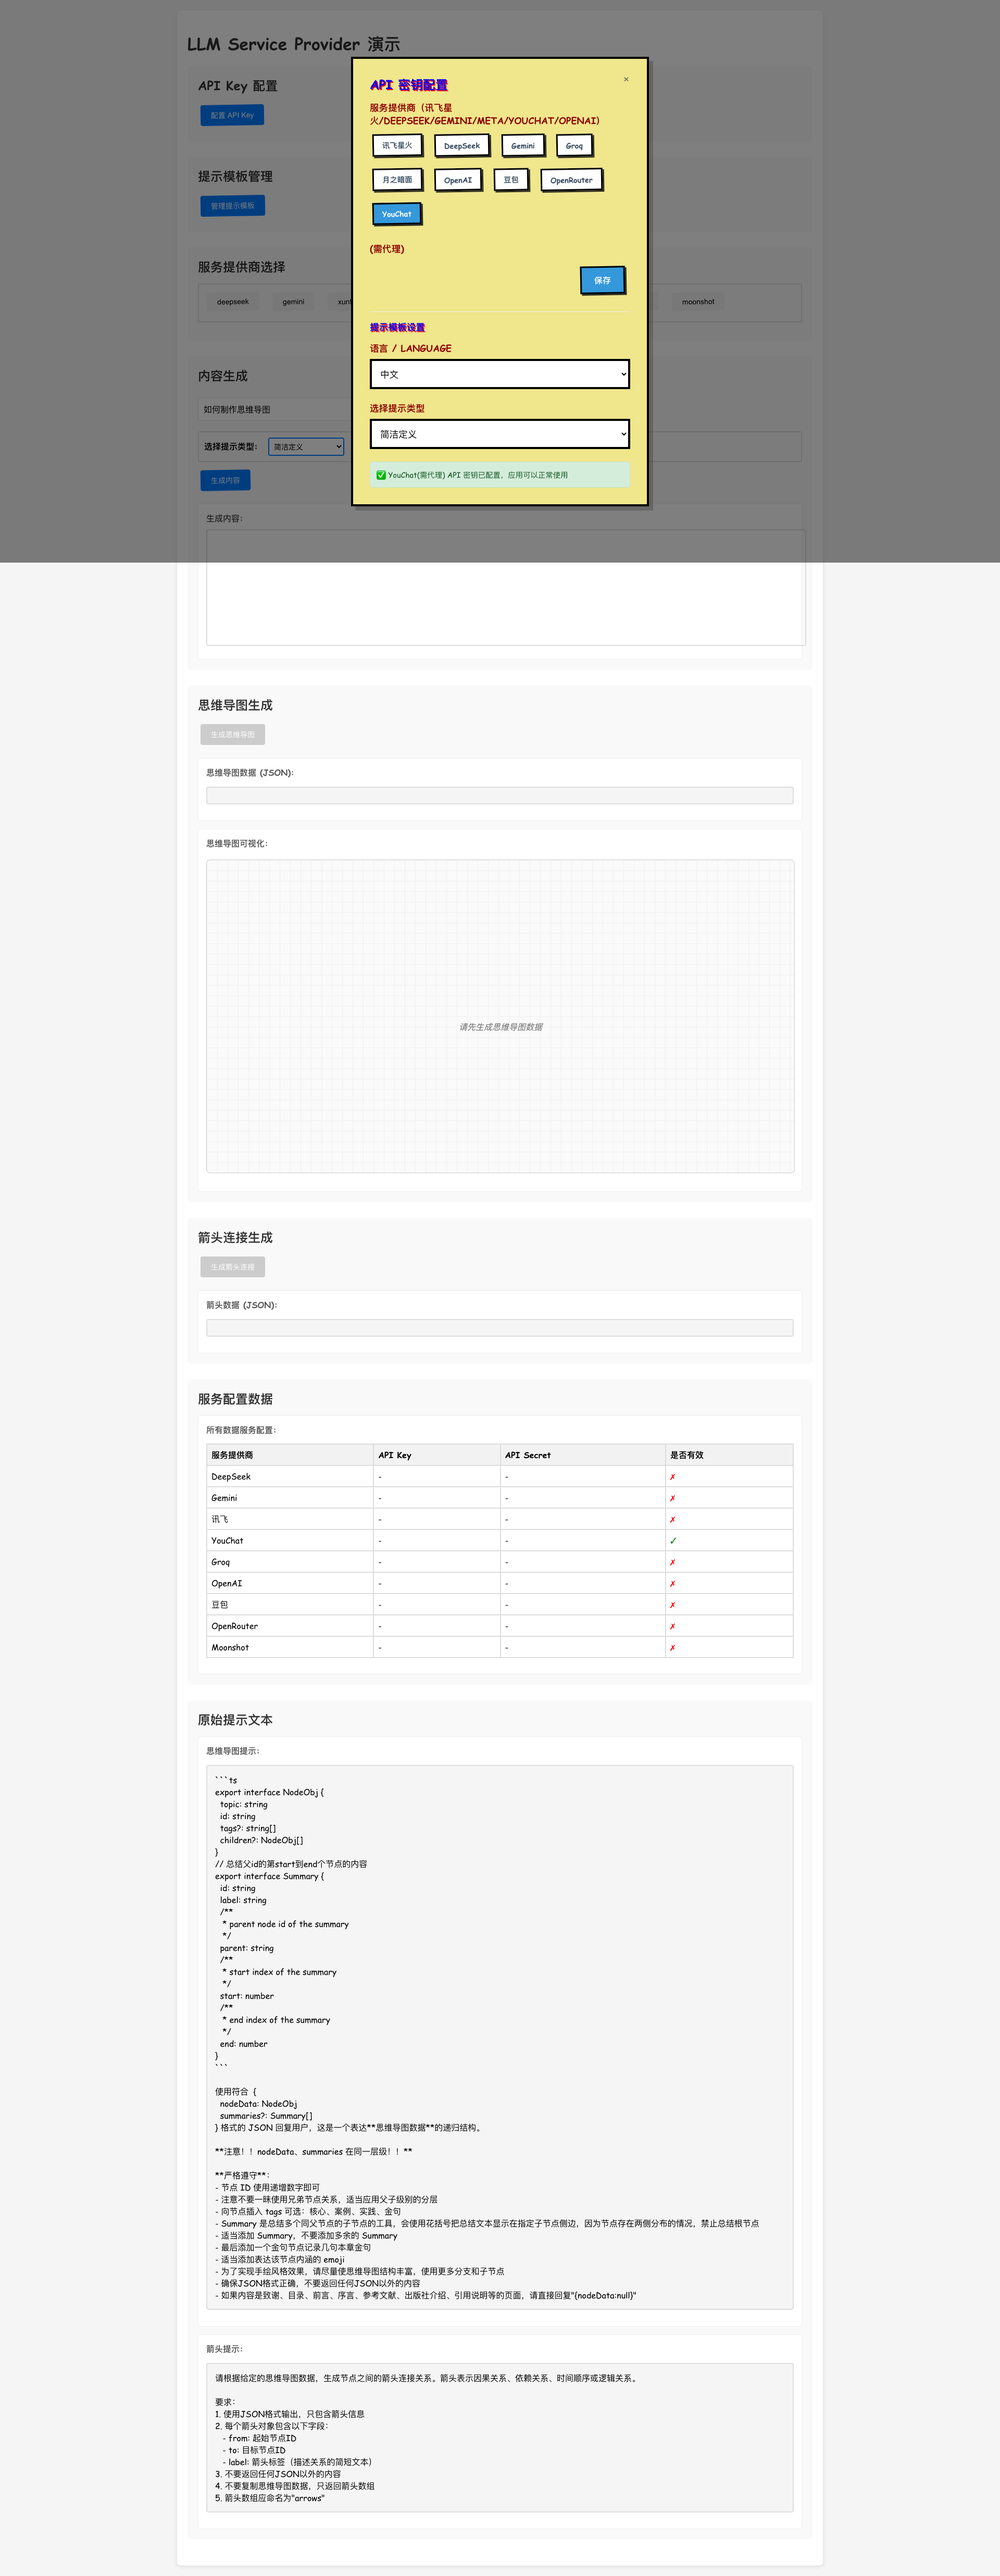
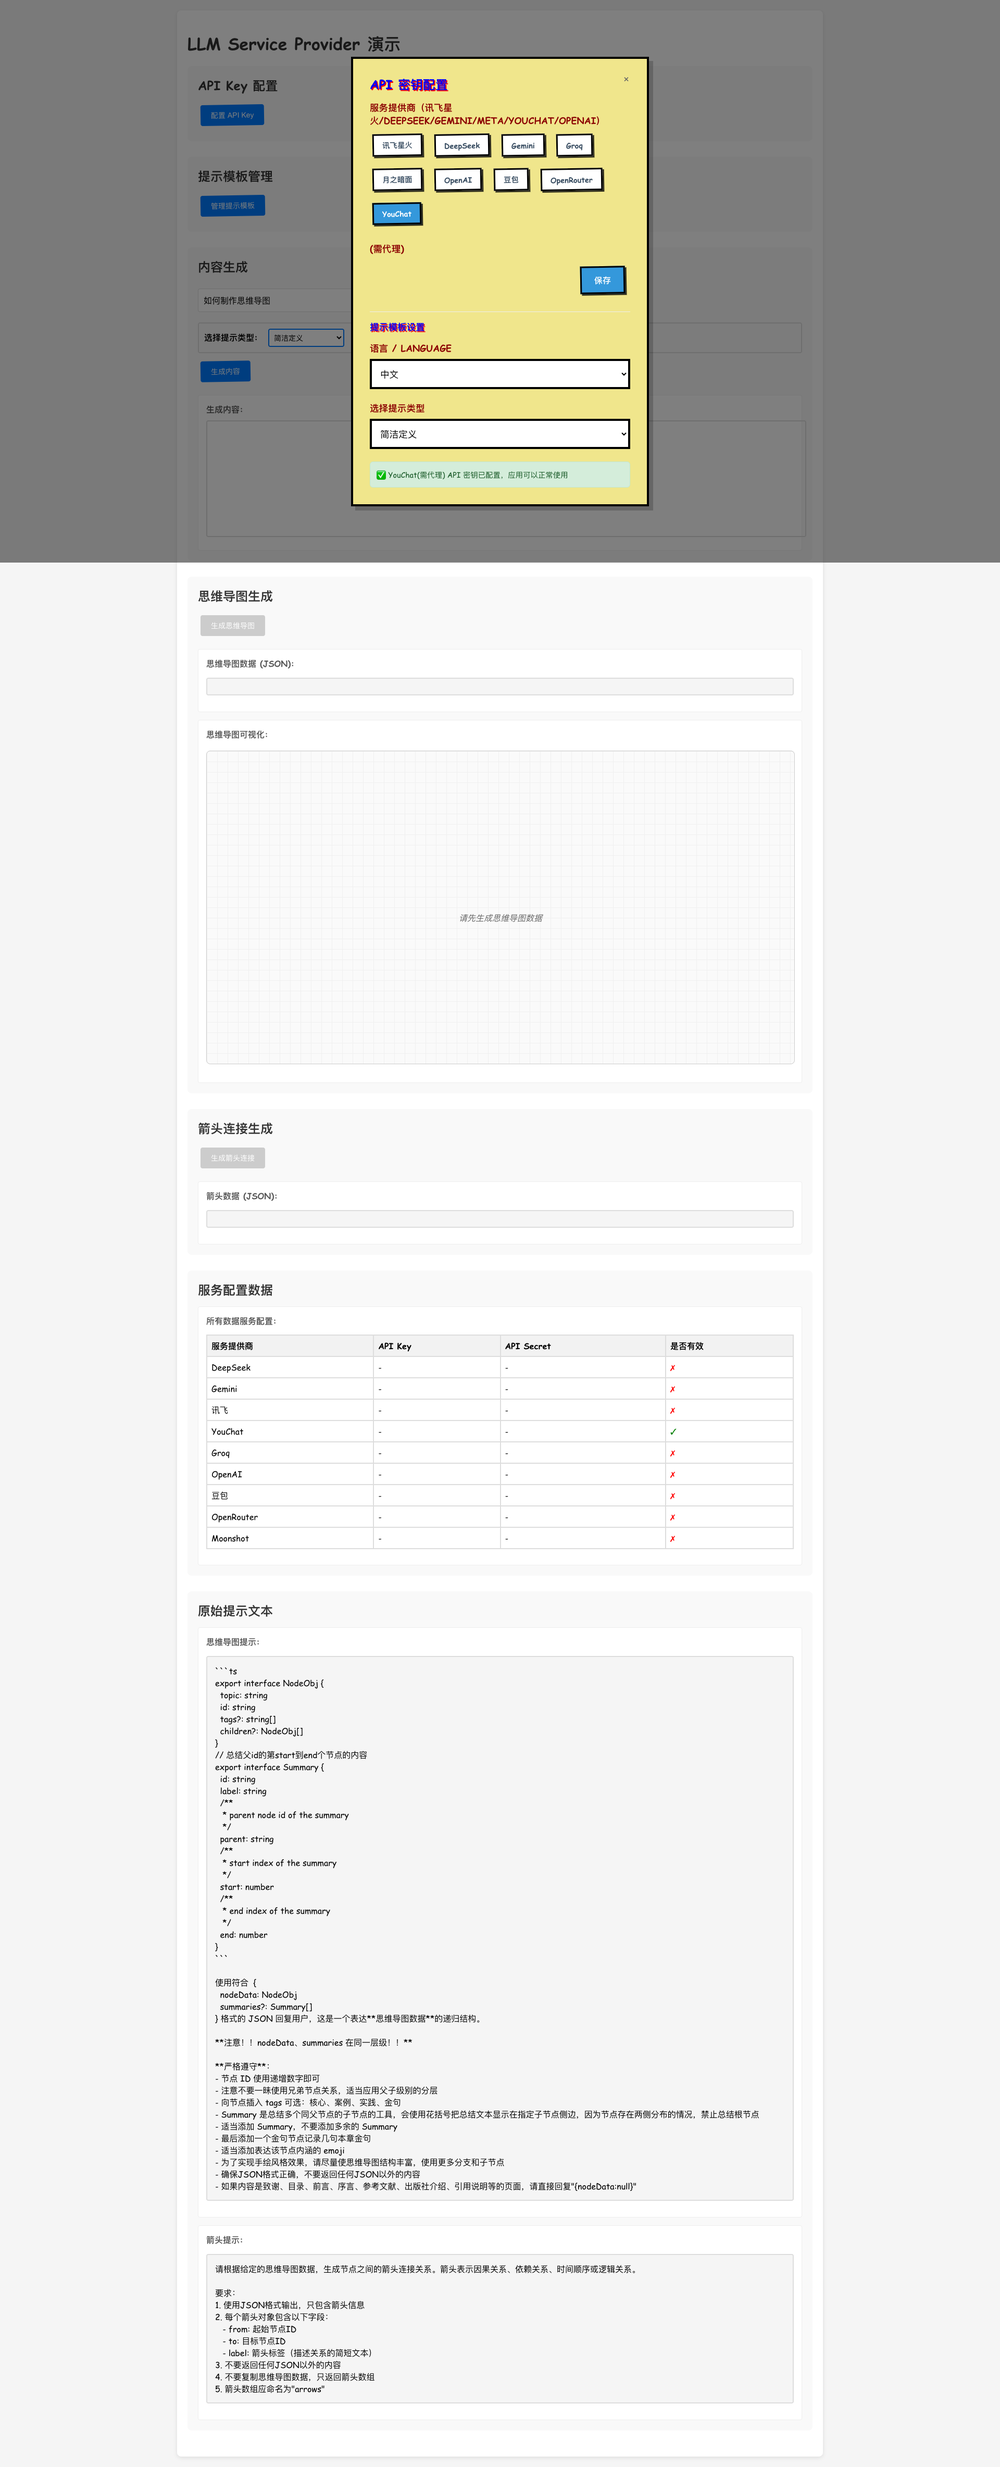
Bump version to 3.6.26

diff --git a/demo/src/App.tsx b/demo/src/App.tsx
@@ -1,4 +1,4 @@
-import React, { useState, useRef, useEffect } from 'react';
+import React, { useState, useRef, useEffect } from "react";
 import ReactFlow, {
   useNodesState,
   useEdgesState,
@@ -15,10 +15,12 @@ import {
   hasApiKey,
   getSelectedServiceProvider,
   setSelectedServiceProvider,
-  getAllServiceConfigurations
+  getAllServiceConfigurations,
 } from "../../src";
 // 修改导入语句
-import ApiKeyManager, { updateSelectedPromptType } from "../../src/ApiKeyManager";
+import ApiKeyManager, {
+  updateSelectedPromptType,
+} from "../../src/ApiKeyManager";
 import MindMapVisualizer from "../../src/MindMapVisualizer";
 import {
   getChapterMindMapPrompt,
@@ -137,7 +139,7 @@ function App() {
     const prompts = getPromptsByLanguage("zh");
     const promptTypes = prompts.map((prompt) => prompt.act);
     setAvailablePrompts(promptTypes);
-    
+
     // 获取所有服务配置数据
     const configs = getAllServiceConfigurations();
     setServiceConfigurations(configs);
@@ -278,24 +280,27 @@ function App() {
     if (!topic || !hasApiKey()) return;
     setIsGeneratingContent(true);
     setContent("");
-    
+
     try {
       let prompt = "";
       const replacements: Record<string, string> = { topic };
-      
-      if ((selectedPromptType === "wiki" || selectedPromptType === "JSON") && category) {
+
+      if (
+        (selectedPromptType === "wiki" || selectedPromptType === "JSON") &&
+        category
+      ) {
         replacements.category = category;
       } else if (selectedPromptType === "带上下文回答" && context) {
         replacements.context = context;
       }
-      
+
       const promptTemplate = getPromptByName(selectedPromptType, "zh");
       if (promptTemplate) {
         prompt = formatPrompt(promptTemplate, replacements);
       } else {
         prompt = topic;
       }
-      
+
       for await (const chunk of streamDefinition(
         topic,
         "zh",
@@ -353,12 +358,6 @@ function App() {
     }
   };
 
-  // 切换服务提供商
-  const handleProviderChange = (provider: ServiceProvider) => {
-    setSelectedProvider(provider);
-    setSelectedServiceProvider(provider);
-  };
-
   return (
     <div className="app-container">
       <h1>LLM Service Provider 演示</h1>
@@ -396,26 +395,6 @@ function App() {
       </div>
 
       <div className="section">
-        <h2>服务提供商选择</h2>
-        <div className="provider-selector">
-          {Object.values(ServiceProvider).map((provider) => (
-            <button
-              key={provider}
-              onClick={() => handleProviderChange(provider)}
-              style={{
-                backgroundColor:
-                  selectedProvider === provider ? "#007bff" : "#f0f0f0",
-                color: selectedProvider === provider ? "white" : "black",
-              }}
-            >
-              {provider}
-            </button>
-          ))}
-        </div>
-      </div>
-
-      {/* 内容生成 */}
-      <div className="section">
         <h2>内容生成</h2>
         <input
           type="text"
@@ -426,14 +405,14 @@ function App() {
 
         <div className="prompt-type-selector">
           <label>选择提示类型:</label>
-                <select
-                value={selectedPromptType}
-                onChange={(e) => {
-                  setSelectedPromptType(e.target.value);
-                  updateSelectedPromptType(e.target.value);
-                }}
-                style={{ padding: "5px", marginLeft: "10px" }}
-              >
+          <select
+            value={selectedPromptType}
+            onChange={(e) => {
+              setSelectedPromptType(e.target.value);
+              updateSelectedPromptType(e.target.value);
+            }}
+            style={{ padding: "5px", marginLeft: "10px" }}
+          >
             {availablePrompts.map((type) => (
               <option key={type} value={type}>
                 {type}
@@ -442,14 +421,15 @@ function App() {
           </select>
         </div>
 
-        {selectedPromptType === "wiki" || selectedPromptType === "JSON" && (
-          <input
-            type="text"
-            value={category}
-            onChange={(e) => setCategory(e.target.value)}
-            placeholder="输入类别..."
-          />
-        )}
+        {selectedPromptType === "wiki" ||
+          (selectedPromptType === "JSON" && (
+            <input
+              type="text"
+              value={category}
+              onChange={(e) => setCategory(e.target.value)}
+              placeholder="输入类别..."
+            />
+          ))}
 
         {selectedPromptType === "带上下文回答" && (
           <textarea
@@ -542,28 +522,45 @@ function App() {
         <div className="result-container">
           <h3>所有数据服务配置:</h3>
           <div className="configurations-table">
-            <table border="1" style={{ width: '100%', borderCollapse: 'collapse' }}>
+            <table
+              border="1"
+              style={{ width: "100%", borderCollapse: "collapse" }}
+            >
               <thead>
                 <tr>
-                  <th style={{ padding: '8px', textAlign: 'left' }}>服务提供商</th>
-                  <th style={{ padding: '8px', textAlign: 'left' }}>API Key</th>
-                  <th style={{ padding: '8px', textAlign: 'left' }}>API Secret</th>
-                  <th style={{ padding: '8px', textAlign: 'left' }}>是否有效</th>
+                  <th style={{ padding: "8px", textAlign: "left" }}>
+                    服务提供商
+                  </th>
+                  <th style={{ padding: "8px", textAlign: "left" }}>API Key</th>
+                  <th style={{ padding: "8px", textAlign: "left" }}>
+                    API Secret
+                  </th>
+                  <th style={{ padding: "8px", textAlign: "left" }}>
+                    是否有效
+                  </th>
                 </tr>
               </thead>
               <tbody>
                 {serviceConfigurations.map((config, index) => (
                   <tr key={index}>
-                    <td style={{ padding: '8px' }}>{config.name}</td>
-                    <td style={{ padding: '8px' }}>
-                      {config.apiKey ? (config.apiKey.length > 0 ? '*'.repeat(Math.min(config.apiKey.length, 10)) : '-') : '-'}
+                    <td style={{ padding: "8px" }}>{config.name}</td>
+                    <td style={{ padding: "8px" }}>
+                      {config.apiKey
+                        ? config.apiKey.length > 0
+                          ? "*".repeat(Math.min(config.apiKey.length, 10))
+                          : "-"
+                        : "-"}
                     </td>
-                    <td style={{ padding: '8px' }}>
-                      {config.apiSecret ? (config.apiSecret.length > 0 ? '*'.repeat(Math.min(config.apiSecret.length, 10)) : '-') : '-'}
+                    <td style={{ padding: "8px" }}>
+                      {config.apiSecret
+                        ? config.apiSecret.length > 0
+                          ? "*".repeat(Math.min(config.apiSecret.length, 10))
+                          : "-"
+                        : "-"}
                     </td>
-                    <td style={{ padding: '8px' }}>
-                      <span style={{ color: config.isValid ? 'green' : 'red' }}>
-                        {config.isValid ? '✓' : '✗'}
+                    <td style={{ padding: "8px" }}>
+                      <span style={{ color: config.isValid ? "green" : "red" }}>
+                        {config.isValid ? "✓" : "✗"}
                       </span>
                     </td>
                   </tr>
